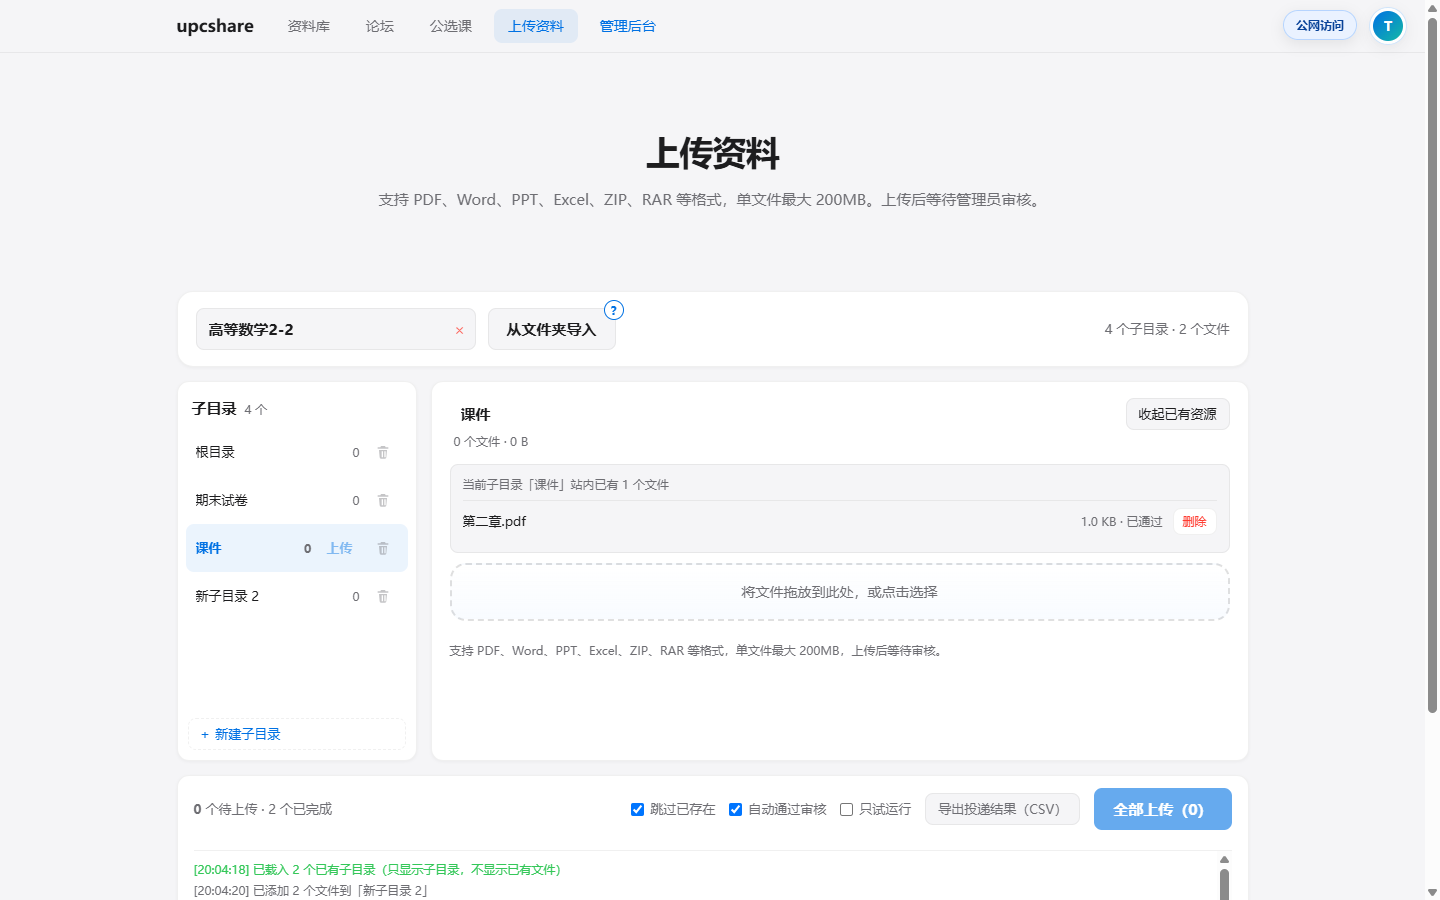
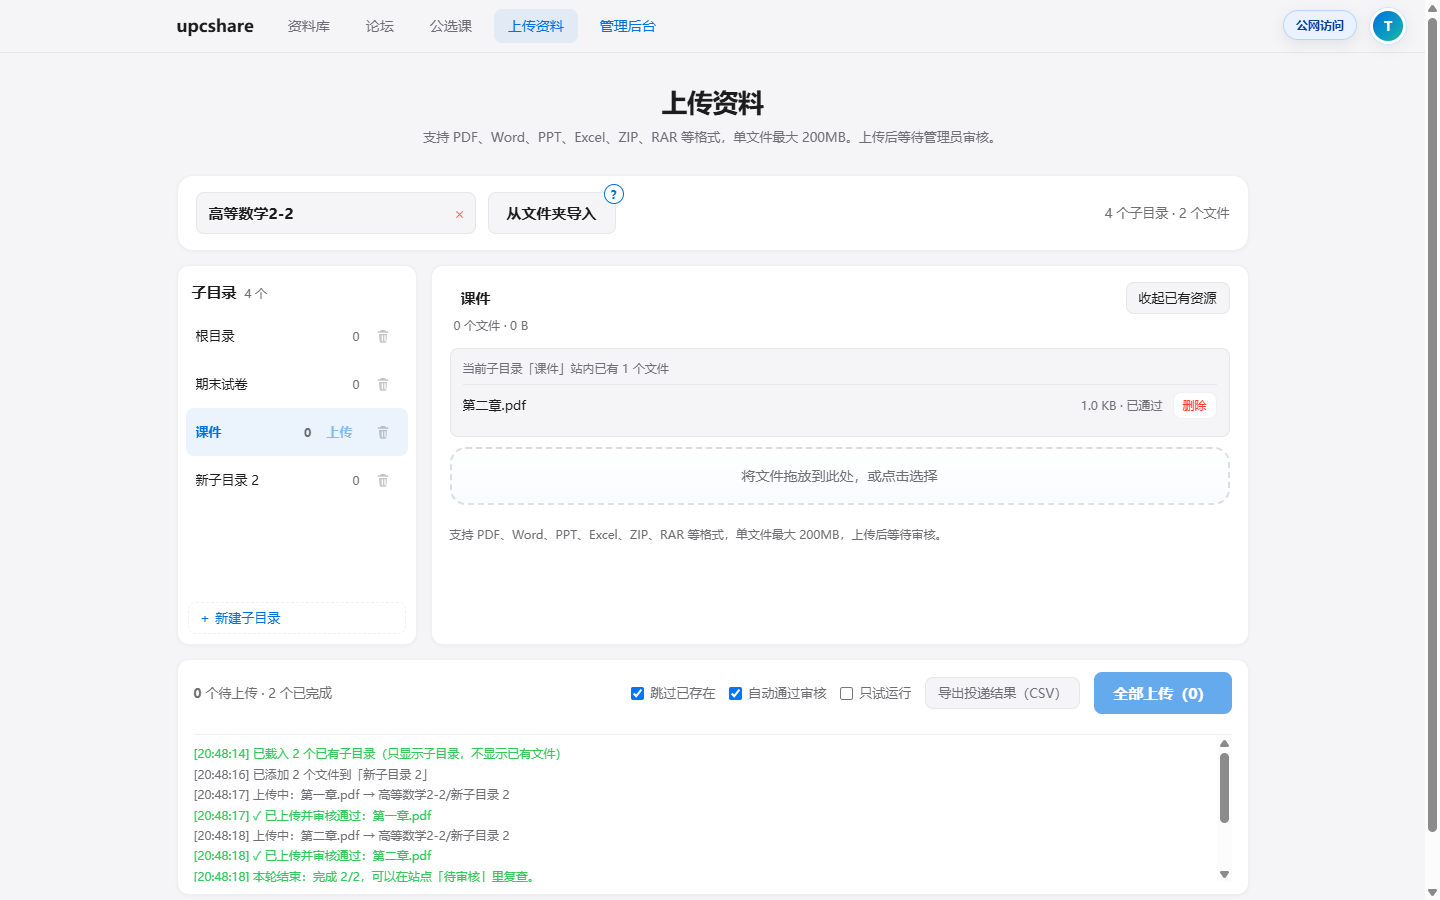
上传页按视口铺满，并补一条未登录提示
- 这一页是工作台不是落地页：站点默认给 .admin-section 留 64px 上 / 80px 下，
  .admin-subtitle 又带 36px 下边距，叠起来近 190px 空白把三栏挤到屏幕下半截。
  现在 20/32 的内边距、标题 26px、说明 13px，容器 min-height 扣掉导航后铺满视口，
  三栏吃掉剩余高度，队列条贴底（1280×900 实测：三栏顶部 265px，页面不出滚动）。
- 未登录时在顶部给一行「请先登录」提示（带 /login 链接），此前只会把 401 写进日志。
- ui-check 27 → 29 项：新增「页面铺满」与「已登录时不显示登录提示」。

diff --git a/vue/src/views/Upload.vue b/vue/src/views/Upload.vue
@@ -1,10 +1,16 @@
 <template>
   <NavBar />
-  <section class="admin-section">
+  <section class="admin-section batch-page">
     <div class="container batch">
       <div class="page-heading">
         <h1 class="admin-title">上传资料</h1>
         <p class="admin-subtitle">支持 PDF、Word、PPT、Excel、ZIP、RAR 等格式，单文件最大 200MB。上传后等待管理员审核。</p>
+      </div>
+
+      <!-- 未登录时先说清楚：否则只会在日志里看到一行 401 -->
+      <div v-if="store.s.me && !store.s.me.logged_in" class="batch-login">
+        <b>请先登录</b>：这个页面要读到你的学科分类才能整理和上传。
+        <router-link to="/login">去登录</router-link>
       </div>
 
       <CoursePicker :store="store" />
@@ -86,7 +92,23 @@ const countOf = (category) => {
 
 <style scoped>
 .batch { display: flex; flex-direction: column; gap: 14px; padding-top: 8px; padding-bottom: 28px; }
-.batch-main { display: flex; gap: 14px; align-items: stretch; min-height: 380px; }
+/* 这一页是工作台，不是落地页：站点默认给 .admin-section 留 64px 上 / 80px 下，
+   .admin-subtitle 又带 36px 下边距，叠起来近 190px 的空白把三栏挤到屏幕下半截。 */
+.batch-page { padding: 20px 0 32px; }
+/* 按视口铺满：导航 52 + 上 20 + 下 32 扣掉，三栏吃掉剩余高度，队列条贴底 */
+.batch-page .container.batch { min-height: calc(100vh - 104px); }
+.batch-page .page-heading { margin-bottom: 14px; }
+.batch-page .admin-title { font-size: 26px; }
+.batch-page .admin-subtitle { margin-top: 4px; margin-bottom: 0; font-size: 13px; }
+.batch-main { display: flex; gap: 14px; align-items: stretch; min-height: 380px; flex: 1 1 auto; }
+/* 未登录提示：和站点其它提示同一档字号，不抢戏 */
+.batch-login {
+  display: flex; align-items: center; gap: 6px; flex-wrap: wrap;
+  padding: 10px 14px; border: 1px solid #f0c36d; background: #fdf6e3; color: #8a5a00;
+  border-radius: var(--radius-sm); font-size: 13px;
+}
+.batch-login b { color: #6b4700; }
+.batch-login a { color: var(--accent); }
 .batch-mask {
   position: fixed; inset: 0; z-index: 60; display: flex; align-items: center; justify-content: center;
   background: rgba(0, 0, 0, .35); padding: 20px;
